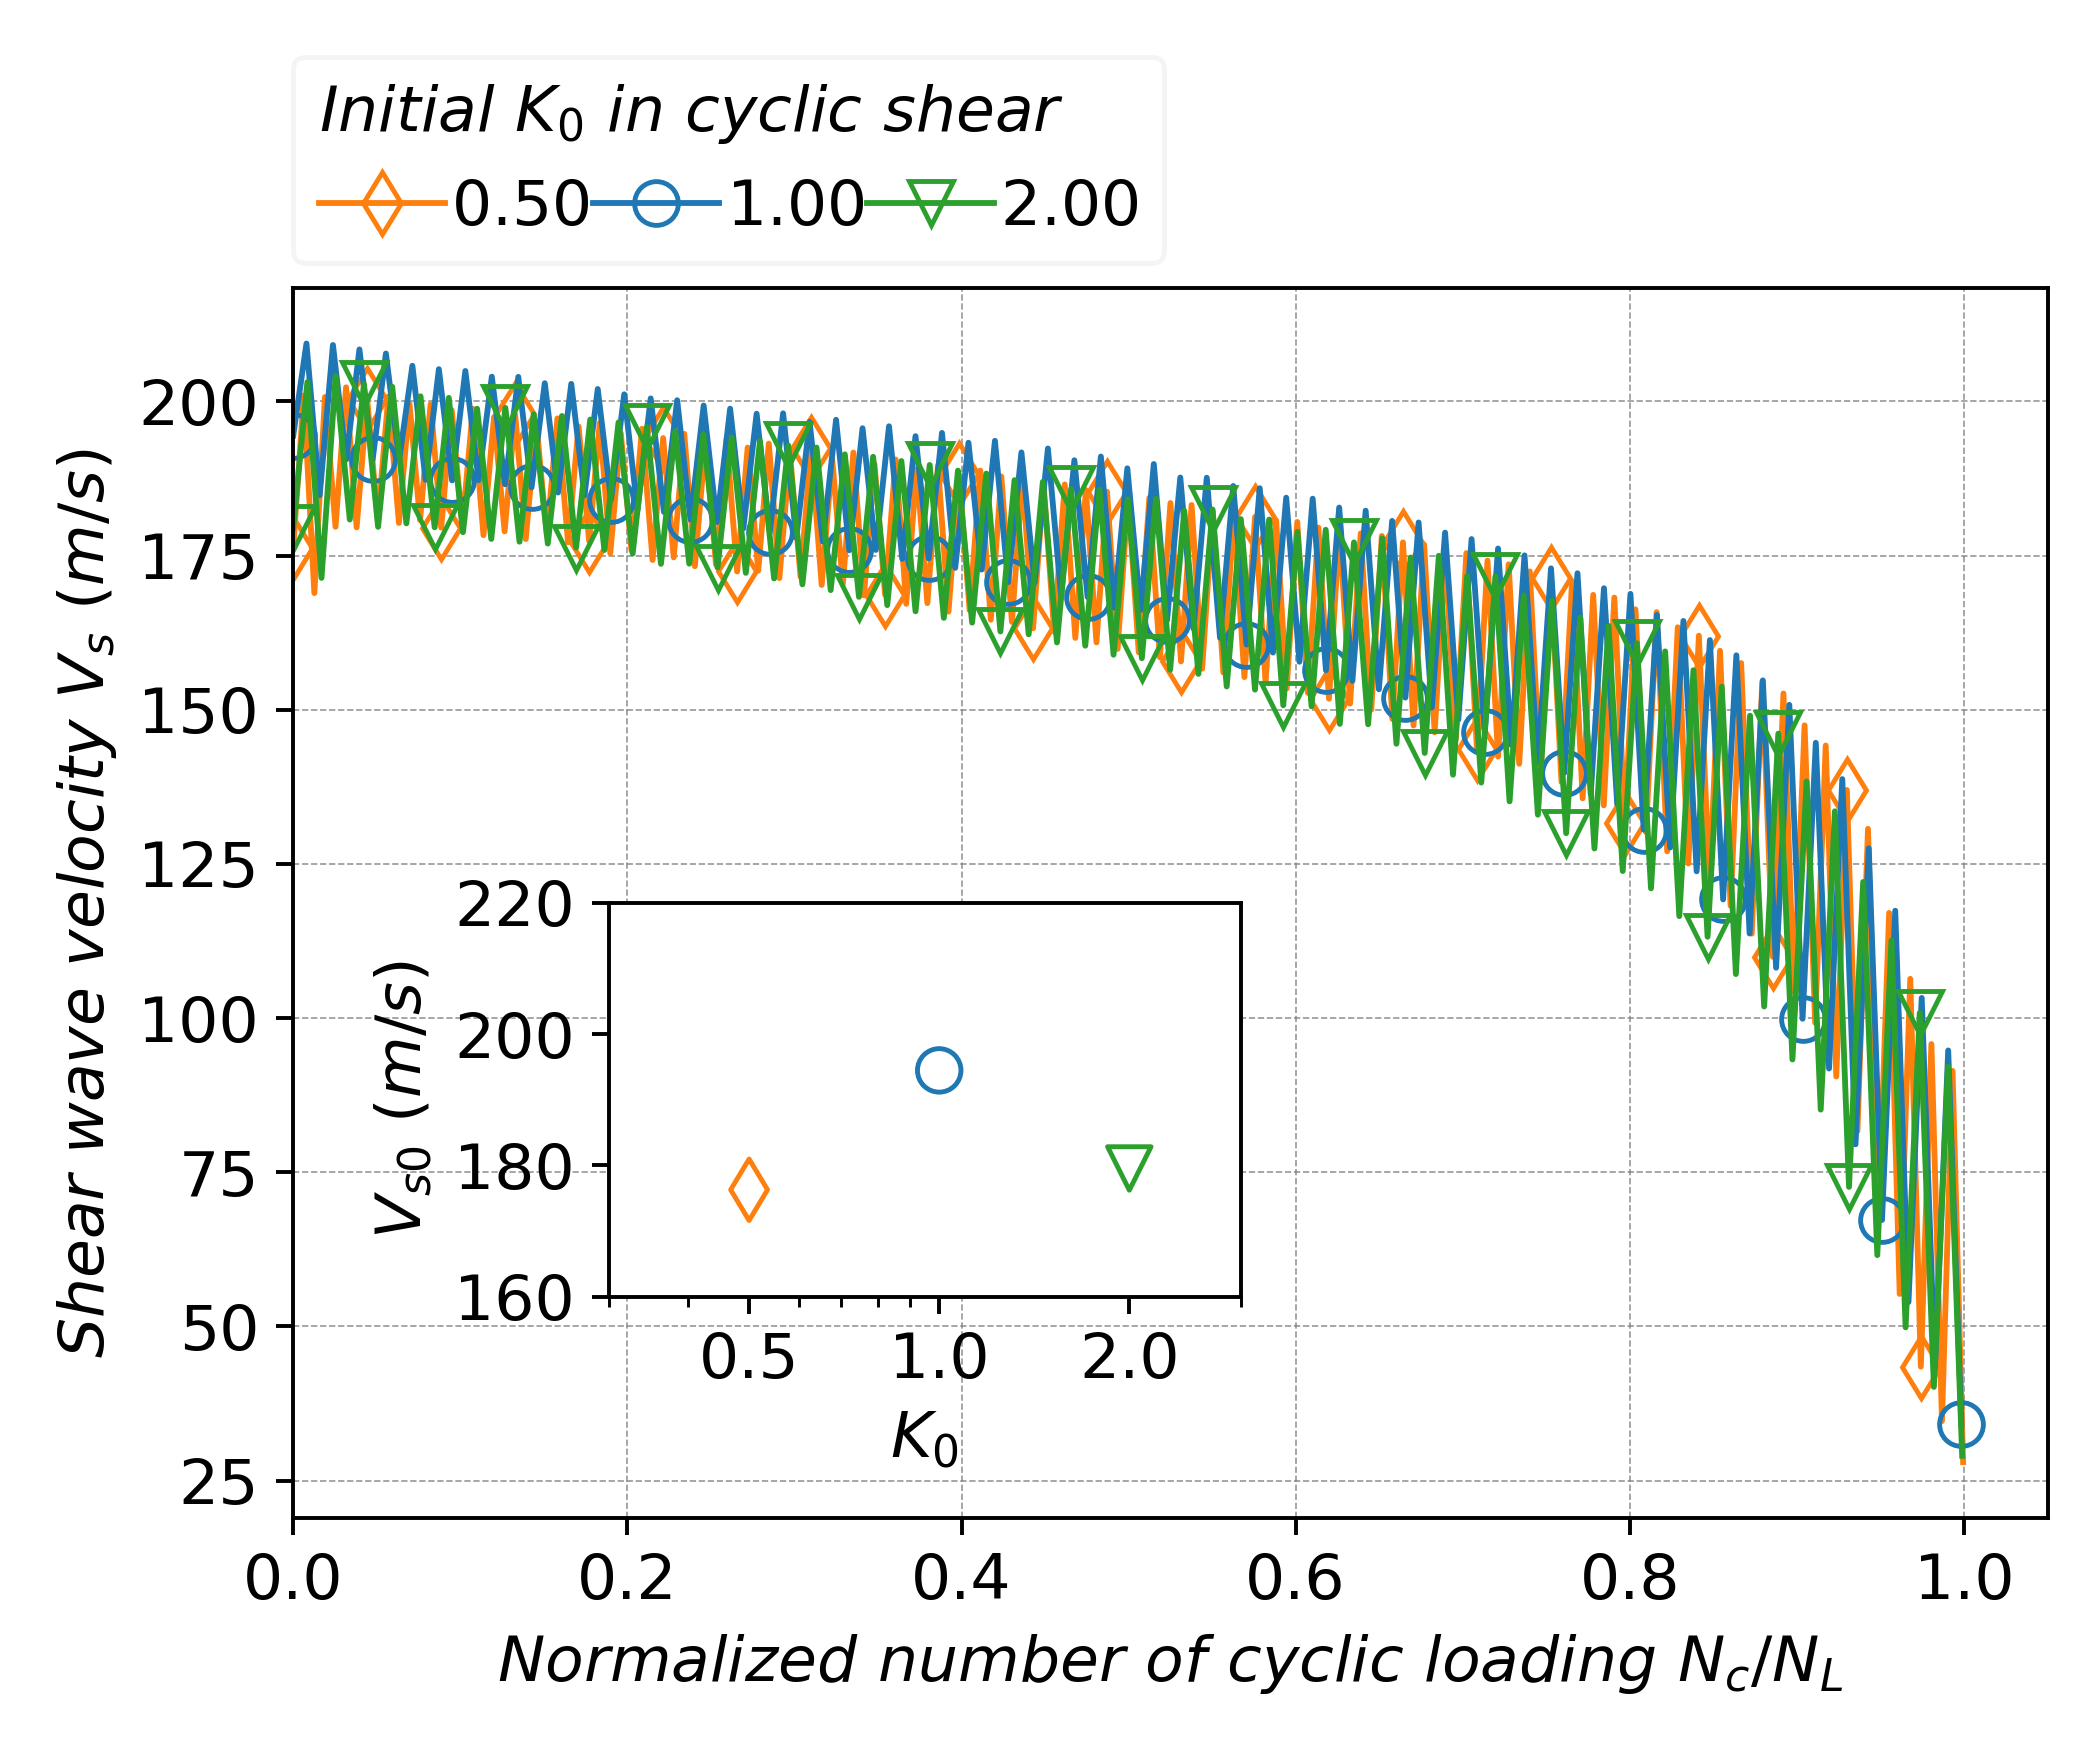
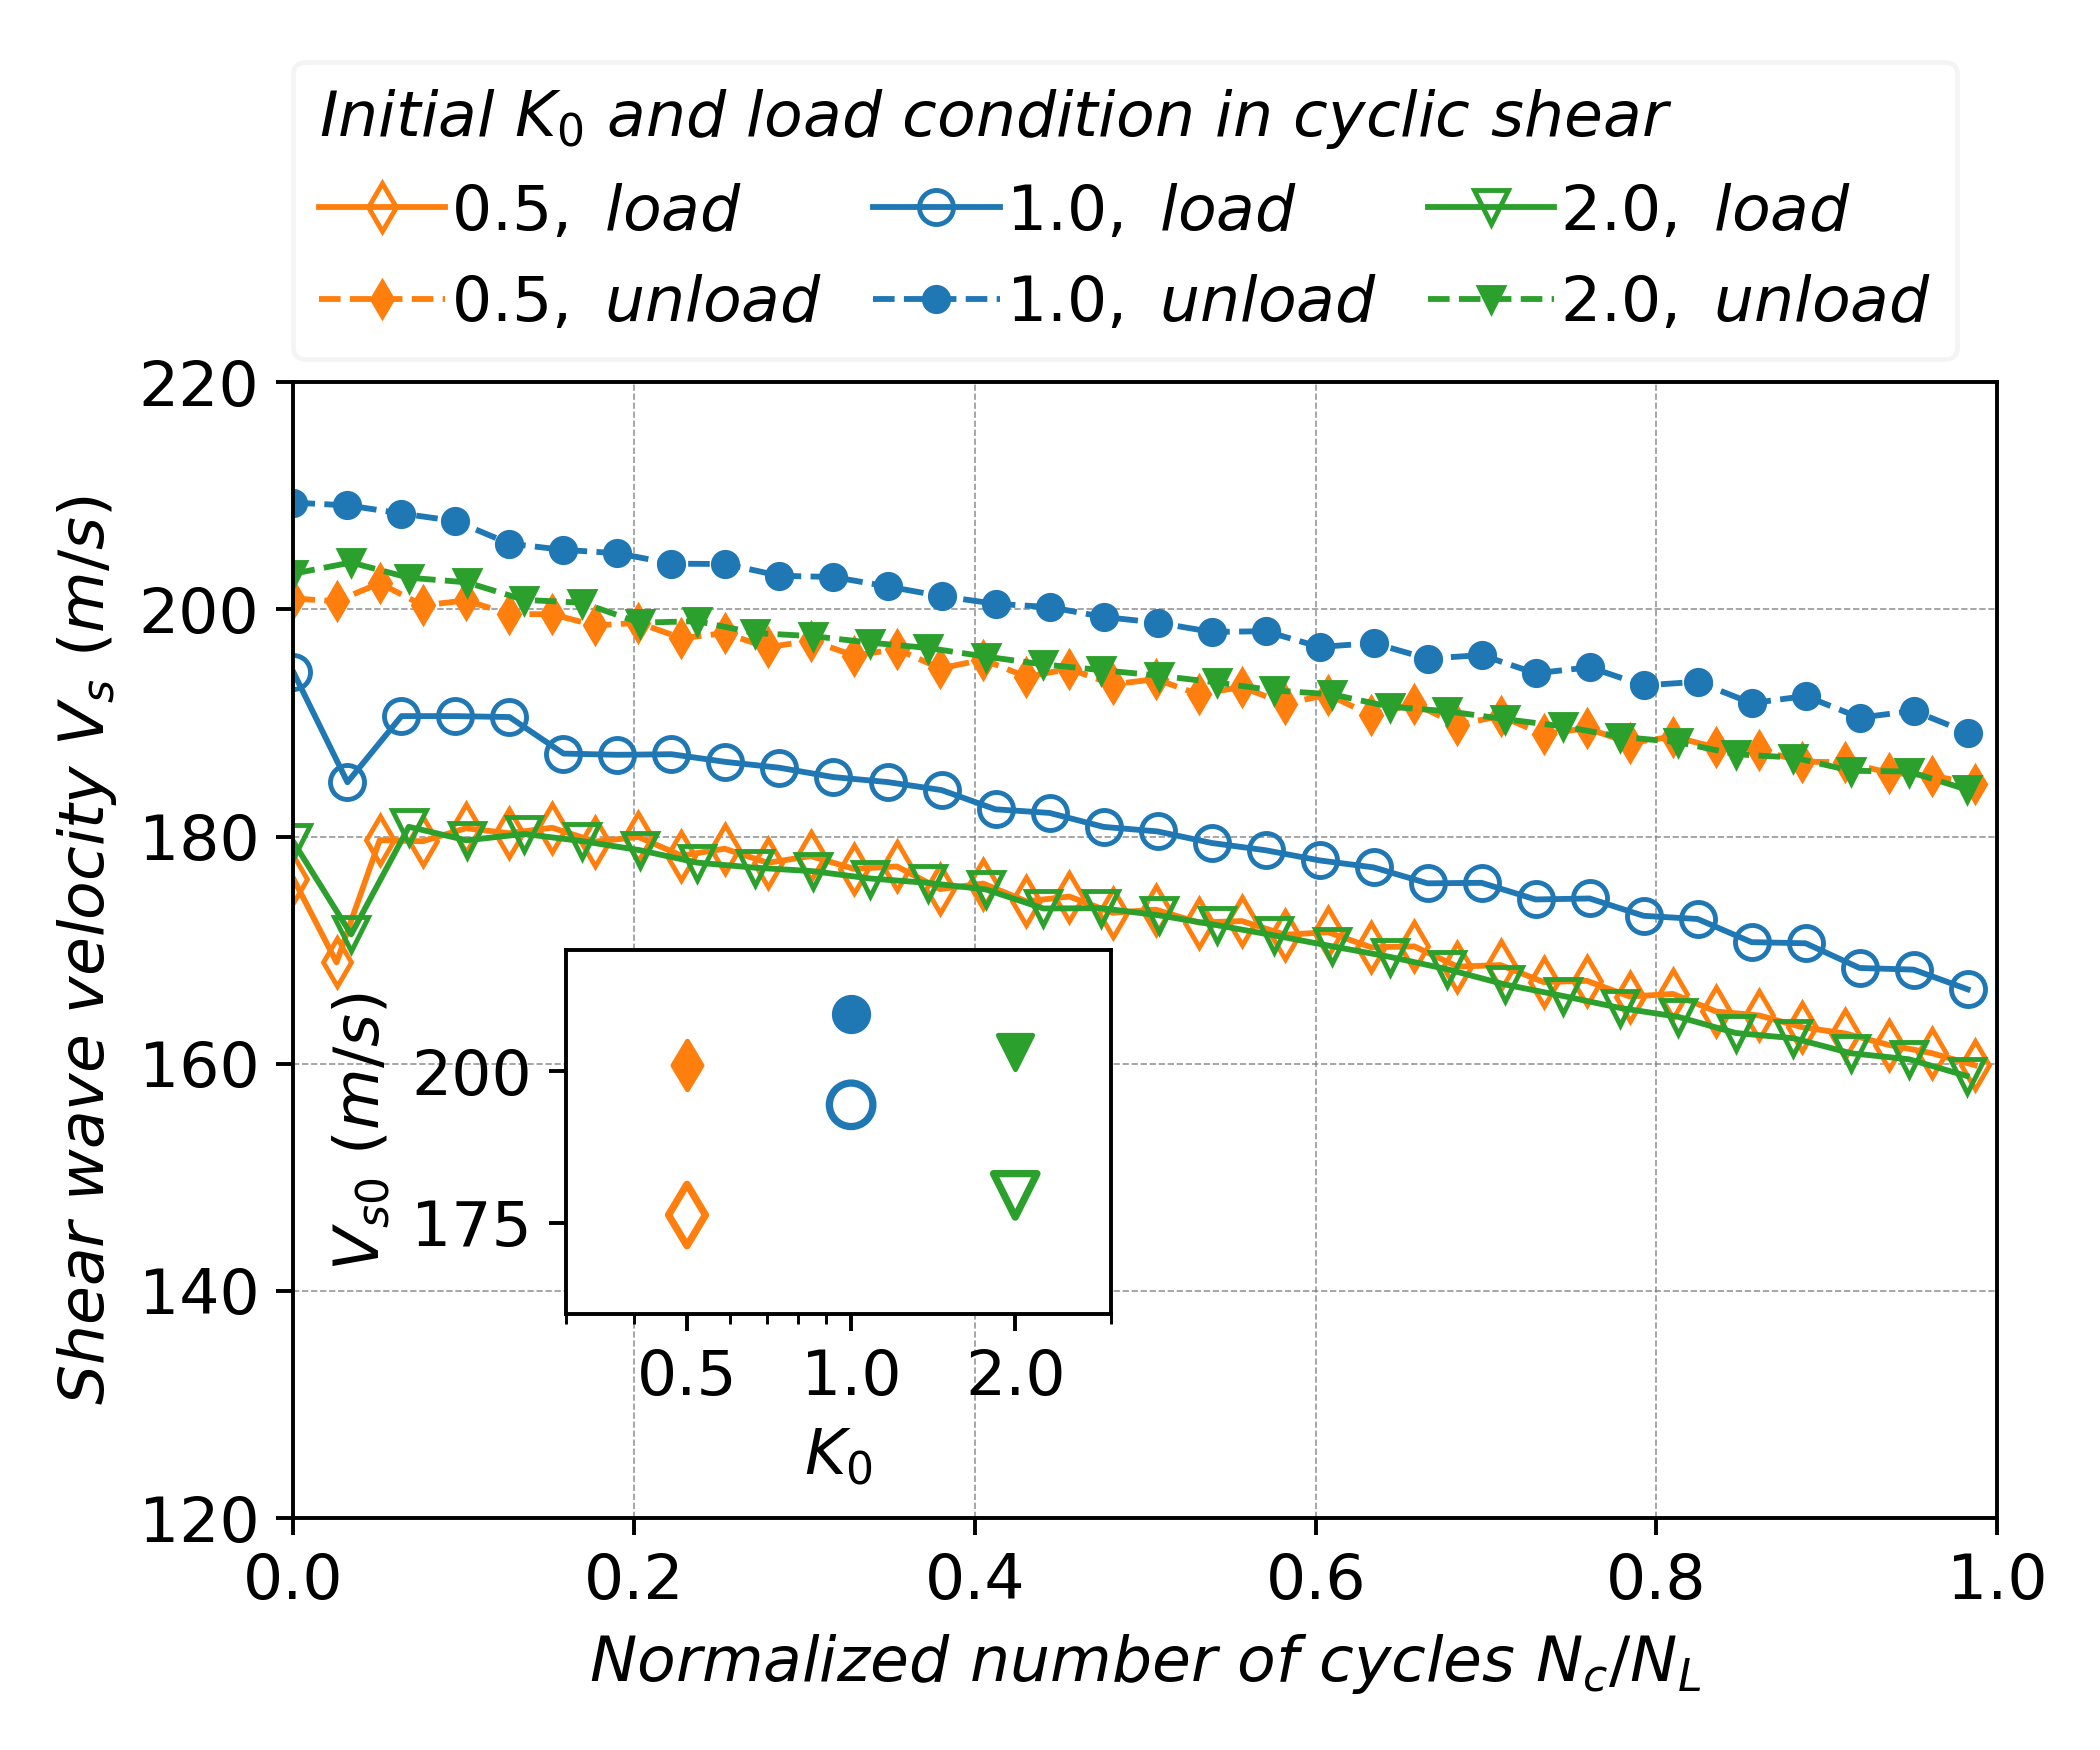
docs: update shear wave velocity figure with loading/unloading separation
- Separate loading (1/4T, 3/4T) and unloading (2/4T, 4/4T) Vs curves
- Show 6 curves: 3 K0 values × load/unload conditions
- Inset shows 6 initial Vs0 points for comparison
- Update Fig. 3.13 description to reflect new visualization
- Unloading stiffness consistently higher than loading (hysteretic behavior)

🤖 Generated with [Claude Code](https://claude.com/claude-code)

diff --git a/torsionSim/cyclic_shear/shear_modulus.py b/torsionSim/cyclic_shear/shear_modulus.py
@@ -7,20 +7,20 @@ from mpl_toolkits.axes_grid1.inset_locator import InsetPosition
 k0s = [0.5, 1.0, 2.0]
 markers = ['d', 'o', 'v']
 colors = ['tab:orange', 'tab:blue', 'tab:green']
-vs0_values = []  # store initial shear wave velocity for inset plot
+vs0_loading_values = []   # store initial loading Vs for inset plot
+vs0_unloading_values = [] # store initial unloading Vs for inset plot
 
 fig1 = plt.figure(figsize=(6.0, 5.0))
 ax1 = plt.gca()
-ax2 = plt.axes([0, 1, 0, 1])  # inset axes for G0 vs K0
+ax2 = plt.axes([0, 1, 0, 1])  # inset axes for Vs0 vs K0
 
 # Set position of inset axes (left bottom)
-ip = InsetPosition(ax1, [0.18, 0.18, 0.36, 0.32])
+ip = InsetPosition(ax1, [0.16, 0.18, 0.32, 0.32])
 ax2.set_axes_locator(ip)
 
 def plot_shear_modulus(k0, color, marker):
 	csr = 0.200
 	file_name = "k%.2f/csr_%.3f/torsion_shear.csv" % (k0, csr)
-	label = r'$%.2f$' % k0
 	try:
 		df1 = pd.read_csv(file_name, header=0)
 	except FileNotFoundError:
@@ -45,8 +45,13 @@ def plot_shear_modulus(k0, color, marker):
 	quarter_period = period * 0.25
 	n_quarters = int(time[ind_liq] / quarter_period) + 1
 
-	Vs_values = []
-	N_norm_values = []
+	# separate loading and unloading
+	Vs_loading = []
+	Vs_unloading = []
+	N_loading = []    # cycle number for loading points
+	N_unloading = []  # cycle number for unloading points
+
+	density_sat = (2600.0 + 1000.0 * df1['void_ratio'][0]) / (df1['void_ratio'][0] + 1.0)
 
 	for i in range(n_quarters):
 		t_start = i * quarter_period
@@ -67,51 +72,71 @@ def plot_shear_modulus(k0, color, marker):
 
 		if abs(d_strain) > 1e-10:
 			G = abs(d_stress / d_strain) * 1000.  # Pa
-			# convert G to Vs: Vs = sqrt(G / rho_sat)
-			density_sat = (2600.0 + 1000.0 * df1['void_ratio'][0]) / (df1['void_ratio'][0] + 1.0)
 			Vs = np.sqrt(G / density_sat)  # m/s
-			Vs_values.append(Vs)
-			N_norm_values.append((i * 0.25) / n_liq)  # normalized by N_L
 
-	Vs_values = np.array(Vs_values)
-	N_norm_values = np.array(N_norm_values)
+			# i=0,2,4,... -> loading (1/4T, 3/4T, 5/4T, ...)
+			# i=1,3,5,... -> unloading (2/4T, 4/4T, 6/4T, ...)
+			if i % 2 == 0:  # loading
+				Vs_loading.append(Vs)
+				N_loading.append((i // 2) / n_liq)  # normalize by N_L, each full cycle
+			else:  # unloading
+				Vs_unloading.append(Vs)
+				N_unloading.append((i // 2) / n_liq)
 
-	# filter to N/N_L <= 1.05
-	flt = N_norm_values <= 1.05
+	Vs_loading = np.array(Vs_loading)
+	Vs_unloading = np.array(Vs_unloading)
+	N_loading = np.array(N_loading)
+	N_unloading = np.array(N_unloading)
 
-	# plot main figure: Vs vs N/N_L
-	ax1.plot(N_norm_values[flt], Vs_values[flt], linewidth=1.2,
+	# filter to N/N_L <= 1.0
+	flt_load = N_loading <= 1.0
+	flt_unload = N_unloading <= 1.0
+
+	# plot loading curve (solid line)
+	label_load = r'$%.1f,\ load$' % k0
+	ax1.plot(N_loading[flt_load], Vs_loading[flt_load], linewidth=1.2,
 		color=color, marker=marker, markerfacecolor='None',
-		markevery=max(1, int(0.05 * len(N_norm_values[flt]))), markersize=9,
-		label=label)
+		linestyle='-', markersize=7, label=label_load)
+
+	# plot unloading curve (dashed line)
+	label_unload = r'$%.1f,\ unload$' % k0
+	ax1.plot(N_unloading[flt_unload], Vs_unloading[flt_unload], linewidth=1.2,
+		color=color, marker=marker, markerfacecolor=color,
+		linestyle='--', markersize=5, label=label_unload)
 
 	# store Vs0 for inset plot
-	if len(Vs_values) > 0:
-		vs0_values.append((k0, Vs_values[0], color, marker))
-		print(f"K0={k0}, Vs0={Vs_values[0]:.2f} m/s, N_L={n_liq:.1f}")
+	if len(Vs_loading) > 0:
+		vs0_loading_values.append((k0, Vs_loading[0], color, marker))
+		print(f"{k0}, Vs0_load={Vs_loading[0]:.2f} m/s, N_L={n_liq:.1f}")
+	if len(Vs_unloading) > 0:
+		vs0_unloading_values.append((k0, Vs_unloading[0], color, marker))
+		print(f"{k0}, Vs0_unload={Vs_unloading[0]:.2f} m/s")
 
 # plot for each K0
 for k0, marker, color in zip(k0s, markers, colors):
 	plot_shear_modulus(k0, color, marker)
 
-# plot inset: Vs0 vs K0
-for k0, vs0, color, marker in vs0_values:
+# plot inset: Vs0 vs K0 (loading - hollow, unloading - filled)
+for k0, vs0, color, marker in vs0_loading_values:
 	ax2.scatter([k0], [vs0], color=color, marker=marker,
-		facecolors='None', s=80)
+		facecolors='None', s=80, linewidths=1.5)
+for k0, vs0, color, marker in vs0_unloading_values:
+	ax2.scatter([k0], [vs0], color=color, marker=marker,
+		facecolors=color, s=50)
 
 # main axes settings
-legend1 = ax1.legend(
-	title=r'$Initial\ K_0\ in\ cyclic\ shear$', title_fontsize=13,
-	fontsize=13, ncol=3, framealpha=0.2, columnspacing=0.05,
-	loc=(-0.00, 1.02), handletextpad=0.1)
+legend1 = ax1.legend(title=r'$Initial\ K_0\ and\ load\ condition\ in\ cyclic\ shear$',title_fontsize=13,
+	fontsize=13, ncol=3, framealpha=0.2, columnspacing=0.8,
+	loc=(-0.0, 1.02), handletextpad=0.1)
 legend1._legend_box.align = "left"
 ax1.set_ylabel(r'$Shear\ wave\ velocity\ V_s\ (m/s)$', fontsize=13)
-ax1.set_xlabel(r'$Normalized\ number\ of\ cyclic\ loading\ N_c/N_L$', fontsize=13)
+ax1.set_xlabel(r'$Normalized\ number\ of\ cycles\ N_c/N_L$', fontsize=13)
 ax1.grid(axis='both', which='major', color='grey', linestyle='--',
 	lw=0.35, alpha=0.8)
 ax1.tick_params(axis='both', which='major', labelsize=13)
-ax1.set_xlim(0, 1.05)
-plt.annotate(r"$CSR=0.200$", xy=(0.03, 5), fontsize=13)
+ax1.set_xlim(0, 1.0)
+ax1.set_ylim(120, 220)
+plt.annotate(r"$CSR=0.200$", xy=(0.55, 125), fontsize=13)
 
 # inset axes settings
 ax2.set_ylabel(r'$V_{s0}\ (m/s)$', fontsize=13)
@@ -124,6 +149,6 @@ ax2.xaxis.set_minor_formatter(plt.NullFormatter())
 ax2.set_xlim(0.3, 3.0)
 ax2.set_ylim(160, 220)
 
-plt.tight_layout()
+plt.tight_layout(rect=[0, 0, 1, 1])
 plt.savefig("shear_modulus.png", dpi=350)
 plt.show()

diff --git a/thesis/04_anisotropic_consolidation.md b/thesis/04_anisotropic_consolidation.md
@@ -284,13 +284,15 @@ $V_{s} = \sqrt{\frac{G}{\rho_{sat}}}$ (3-9)
 
 ![](thesis/assets/images/shear_wave_velocity.png)
 
-Fig. 3.13. Evolution of shear wave velocity during cyclic shear and initial shear wave velocity for different $K_{0}$ values (CSR=0.200)
+Fig. 3.13. Evolution of shear wave velocity during cyclic shear for different $K_{0}$ values, showing loading and unloading stiffness separately (CSR=0.200)
 
-Fig. 3.13 presents the evolution of shear wave velocity $V_s$ during undrained cyclic shear, calculated at quarter-period intervals. The inset shows the initial shear wave velocity $V_{s0}$ for each $K_0$ state. The $K_0$=1.0 specimen exhibits the highest $V_{s0}$ (approximately 195 m/s), while $K_0$=0.5 and $K_0$=2.0 show lower values (approximately 175 and 178 m/s, respectively). As cyclic loading progresses, all specimens show gradual degradation of $V_s$, with a sharp decrease near liquefaction.
+Fig. 3.13 presents the evolution of shear wave velocity $V_s$ during undrained cyclic shear, with loading and unloading phases plotted separately. The loading $V_s$ is calculated from the first and third quarter-periods of each cycle, while the unloading $V_s$ is calculated from the second and fourth quarter-periods. The inset shows the initial shear wave velocity $V_{s0}$ for both loading and unloading conditions. For all three $K_0$ states, unloading stiffness is consistently higher than loading stiffness, reflecting the typical hysteretic behavior of granular materials under cyclic loading.
+
+The $K_0$=1.0 specimen exhibits the highest $V_s$ throughout the cyclic shear process for both loading and unloading conditions, with initial values of approximately 195 m/s (loading) and 210 m/s (unloading). The $K_0$=0.5 and $K_0$=2.0 specimens show lower and comparable values, with initial loading $V_s$ around 175-180 m/s. As cyclic loading progresses, all specimens show gradual degradation of $V_s$, with the degradation rate being similar across different $K_0$ states.
 
 Combining Fig. 3.12 and Fig. 3.13 provides a comprehensive macroscopic interpretation of how anisotropic consolidation affects liquefaction resistance. For $K_0$=1.0 and $K_0$=2.0, Fig. 3.12(b) shows similar $r_u$-$W_s$ relationships and comparable $W_{sL}$ values, suggesting similar energy dissipation characteristics. However, Fig. 3.13 reveals that the $K_0$=1.0 specimen maintains consistently higher $V_s$ throughout the cyclic shear process compared to $K_0$=2.0. This higher stiffness results in smaller strain amplitude per cycle, requiring more cycles to accumulate sufficient strain for liquefaction. Thus, the $K_0$=1.0 specimen exhibits greater liquefaction resistance than $K_0$=2.0 despite similar energy requirements.
 
-For the $K_0$=0.5 specimen, although both initial stiffness and stiffness during cyclic shear are lower than those of $K_0$=1.0 (Fig. 3.13), Fig. 3.12(b) clearly demonstrates that achieving the same $r_u$ level requires substantially more shear work for $K_0$=0.5 compared to $K_0$=1.0 and $K_0$=2.0. This indicates that the $K_0$=0.5 specimen possesses greater resistance to pore pressure buildup per unit energy input. Consequently, the $K_0$=0.5 specimen requires the most cycles to reach liquefaction and exhibits the highest liquefaction resistance among the three states, despite having lower shear stiffness than the isotropic state.
+For the $K_0$=0.5 specimen, although both loading and unloading stiffness during cyclic shear are comparable to those of $K_0$=2.0 (Fig. 3.13), Fig. 3.12(b) clearly demonstrates that achieving the same $r_u$ level requires substantially more shear work for $K_0$=0.5 compared to $K_0$=1.0 and $K_0$=2.0. This indicates that the $K_0$=0.5 specimen possesses greater resistance to pore pressure buildup per unit energy input. Consequently, the $K_0$=0.5 specimen requires the most cycles to reach liquefaction and exhibits the highest liquefaction resistance among the three states, despite having similar shear stiffness to the extension state ($K_0$=2.0).
 
 While shear stiffness and energy dissipation provide useful macroscopic characterizations, they do not explain why the compression state ($K_0$=0.5) exhibits greater resistance to pore pressure buildup, or why specimens with similar energy requirements show different liquefaction resistance. Macroscopic parameters such as void ratio and stiffness cannot capture the underlying particle-scale fabric structure that ultimately governs the mechanical response. To elucidate the fundamental mechanisms, the following sections examine microscopic quantities and their evolution under different $K_0$ states.
 
